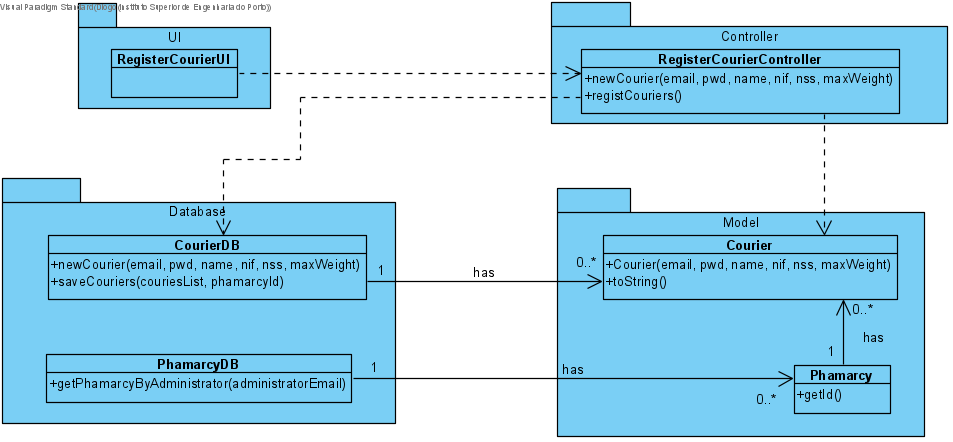
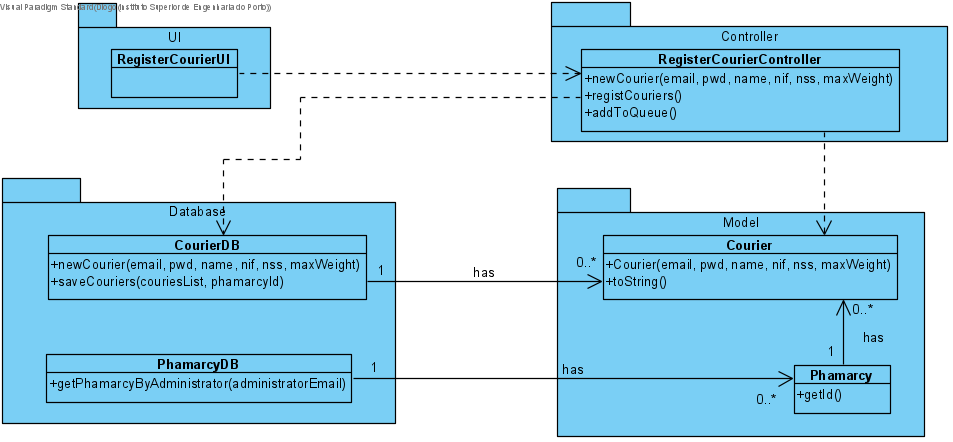
MEN09-175 #close Regist Courier [Review]

Changed region(s): [[0.5782, 0.2353, 1.0, 0.3235]]

diff --git a/src/main/java/lapr/project/controller/RegisterCourierController.java b/src/main/java/lapr/project/controller/RegisterCourierController.java
@@ -35,18 +35,23 @@ public class RegisterCourierController {
         this.pdb = new PhamarcyDB();
     }
 
-    public RegisterCourierController(CourierDB courierDB, String administratorEmail) { 
-        this.courierDB = courierDB; 
-        couriersList = new ArrayList<>();
+    public RegisterCourierController(CourierDB courierDB, PhamarcyDB pdb, String administratorEmail) {
+        this.courierDB = courierDB;
+        this.couriersList = new ArrayList<>();
         this.administratorEmail = administratorEmail;
-        this.pdb = new PhamarcyDB();
+        this.pdb = pdb;
     }
+
+    
 
    
     public String newCourier(String name, String email, String password, int nif, int nss, double maxWeight) {
         courier = courierDB.newCourier(name,email,password, nif, nss, maxWeight);
-        couriersList.add(courier);
         return courier.toString();
+    }
+    
+    public boolean addToQueue(){
+        return couriersList.add(courier);
     }
 
     
